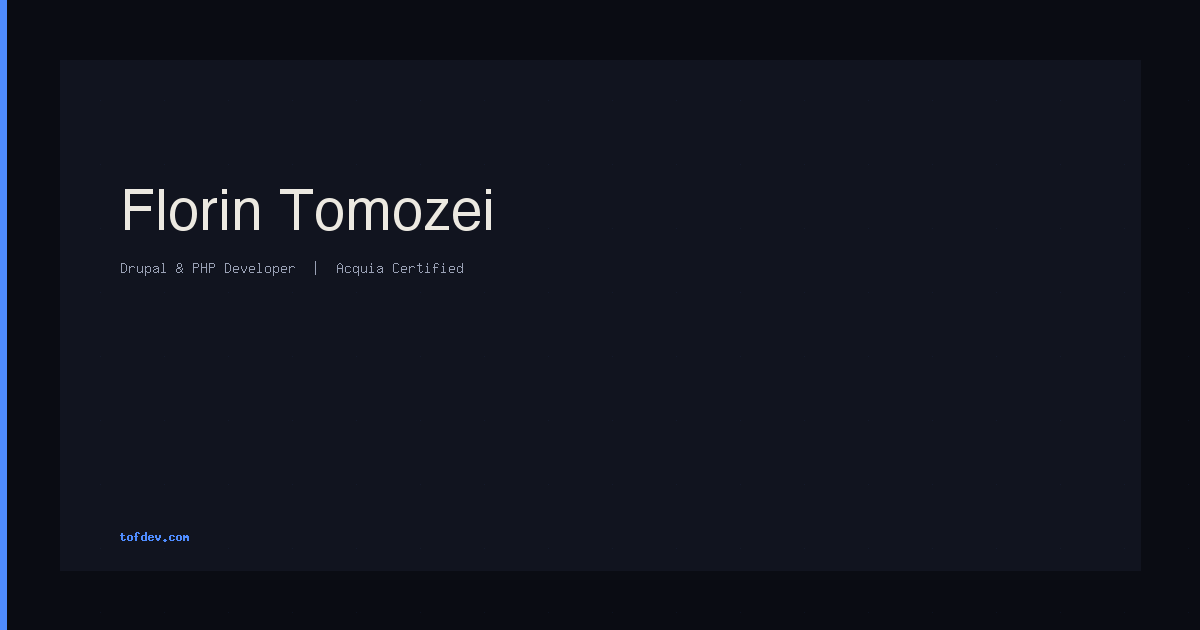
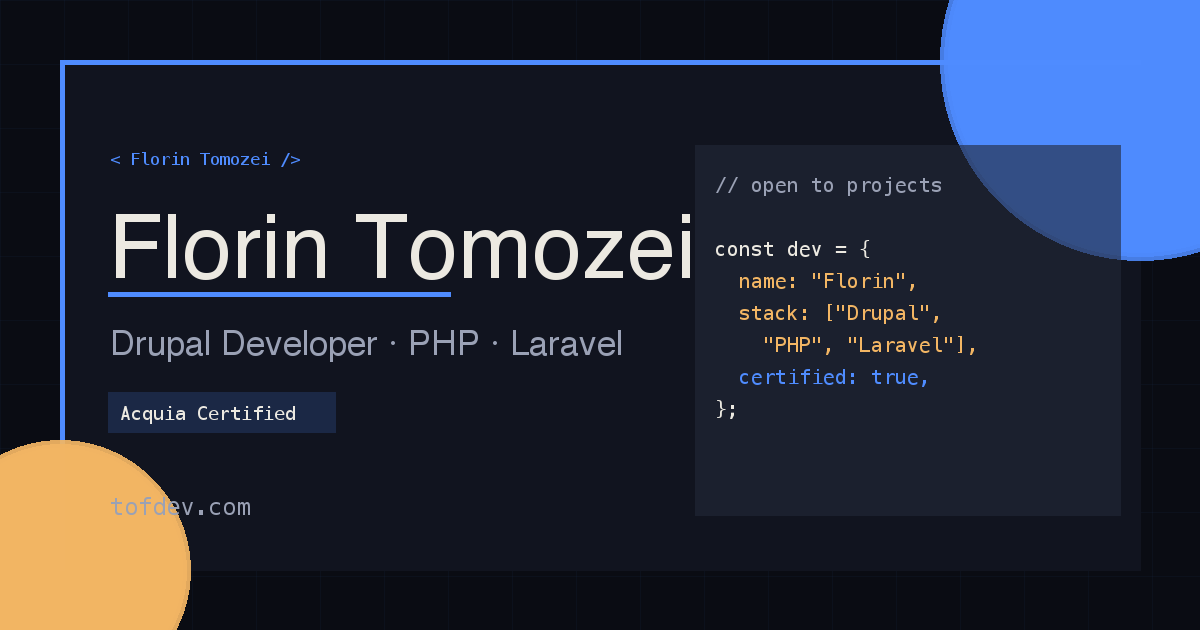
Add custom 404 page, security headers middleware, improved OG image

diff --git a/resources/views/errors/404.blade.php b/resources/views/errors/404.blade.php
@@ -1,0 +1,47 @@
+<x-layout>
+<x-slot:title>Page Not Found — Florin Tomozei</x-slot:title>
+<x-slot:description>This page does not exist.</x-slot:description>
+
+<main class="min-h-[70vh] flex items-center justify-center px-6 pb-32 pt-20">
+    <div class="max-w-xl mx-auto text-center">
+
+        {{-- 404 number --}}
+        <div class="relative inline-block mb-8">
+            <span class="font-display text-[10rem] md:text-[12rem] font-bold leading-none text-transparent bg-clip-text"
+                  style="background-image: linear-gradient(135deg, var(--color-accent) 0%, var(--color-warm) 100%); -webkit-background-clip: text; -webkit-text-fill-color: transparent;">
+                404
+            </span>
+            <div class="absolute inset-0 blur-3xl opacity-20"
+                 style="background: linear-gradient(135deg, var(--color-accent), var(--color-warm)); border-radius: 9999px;"></div>
+        </div>
+
+        <h1 class="font-display text-3xl md:text-4xl text-text mb-4 tracking-tight">Page not found</h1>
+        <p class="text-muted text-lg mb-10 leading-relaxed">
+            The page you're looking for doesn't exist or has been moved.
+        </p>
+
+        <div class="flex flex-col sm:flex-row items-center justify-center gap-4">
+            <a href="/"
+               class="px-6 py-3 rounded-full bg-accent text-white font-semibold text-sm hover:bg-accent/90 transition-colors">
+                Back to home
+            </a>
+            <a href="/contact"
+               class="px-6 py-3 rounded-full border border-line text-muted font-medium text-sm hover:text-text hover:border-accent/40 transition-colors">
+                Contact me
+            </a>
+        </div>
+
+        {{-- Decorative grid --}}
+        <div class="mt-16 grid grid-cols-3 gap-3 max-w-xs mx-auto opacity-30">
+            @foreach(['/','about','/projects','/blog','/til','/contact'] as $link)
+            <a href="{{ $link }}"
+               class="px-3 py-2 rounded-lg border border-line text-xs text-muted hover:text-accent hover:border-accent/30 transition-colors font-mono">
+                {{ trim($link, '/') ?: 'home' }}
+            </a>
+            @endforeach
+        </div>
+
+    </div>
+</main>
+
+</x-layout>

diff --git a/app/Http/Middleware/SecurityHeaders.php b/app/Http/Middleware/SecurityHeaders.php
@@ -1,0 +1,23 @@
+<?php
+
+namespace App\Http\Middleware;
+
+use Closure;
+use Illuminate\Http\Request;
+use Symfony\Component\HttpFoundation\Response;
+
+class SecurityHeaders
+{
+    public function handle(Request $request, Closure $next): Response
+    {
+        $response = $next($request);
+
+        $response->headers->set('X-Content-Type-Options', 'nosniff');
+        $response->headers->set('X-Frame-Options', 'SAMEORIGIN');
+        $response->headers->set('Referrer-Policy', 'strict-origin-when-cross-origin');
+        $response->headers->set('Permissions-Policy', 'camera=(), microphone=(), geolocation=()');
+        $response->headers->set('X-XSS-Protection', '1; mode=block');
+
+        return $response;
+    }
+}

diff --git a/bootstrap/app.php b/bootstrap/app.php
@@ -13,6 +13,7 @@ return Application::configure(basePath: dirname(__DIR__))
     )
     ->withMiddleware(function (Middleware $middleware): void {
         $middleware->trustProxies(at: '*');
+        $middleware->append(\App\Http\Middleware\SecurityHeaders::class);
     })
     ->withExceptions(function (Exceptions $exceptions): void {
         $exceptions->shouldRenderJsonWhen(
